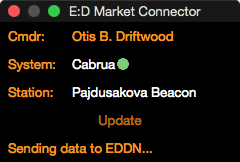
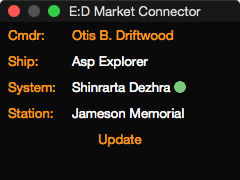
Add Ship field to main Window
Send clicks to current loadout on E:D Shipyard.

diff --git a/EDMarketConnector.py b/EDMarketConnector.py
@@ -94,20 +94,24 @@ class AppWindow:
         frame.columnconfigure(1, weight=1)
 
         self.cmdr_label = tk.Label(frame)
+        self.ship_label = tk.Label(frame)
         self.system_label = tk.Label(frame)
         self.station_label = tk.Label(frame)
 
         self.cmdr_label.grid(row=1, column=0, sticky=tk.W)
-        self.system_label.grid(row=2, column=0, sticky=tk.W)
-        self.station_label.grid(row=3, column=0, sticky=tk.W)
+        self.ship_label.grid(row=2, column=0, sticky=tk.W)
+        self.system_label.grid(row=3, column=0, sticky=tk.W)
+        self.station_label.grid(row=4, column=0, sticky=tk.W)
 
-        self.cmdr = tk.Label(frame, anchor=tk.W)
-        self.system =  HyperlinkLabel(frame, compound=tk.RIGHT, url = self.system_url, popup_copy = True)
+        self.cmdr    = tk.Label(frame, anchor=tk.W)
+        self.ship    = HyperlinkLabel(frame, url = self.edshipyard_url)
+        self.system  = HyperlinkLabel(frame, compound=tk.RIGHT, url = self.system_url, popup_copy = True)
         self.station = HyperlinkLabel(frame, url = self.station_url, popup_copy = lambda x: x!=self.STATION_UNDOCKED)
 
         self.cmdr.grid(row=1, column=1, sticky=tk.EW)
-        self.system.grid(row=2, column=1, sticky=tk.EW)
-        self.station.grid(row=3, column=1, sticky=tk.EW)
+        self.ship.grid(row=2, column=1, sticky=tk.EW)
+        self.system.grid(row=3, column=1, sticky=tk.EW)
+        self.station.grid(row=4, column=1, sticky=tk.EW)
 
         for plugname in plug.PLUGINS:
             appitem = plug.get_plugin_app(plugname, frame)
@@ -127,7 +131,7 @@ class AppWindow:
         theme.button_bind(self.theme_button, self.getandsend)
 
         for child in frame.winfo_children():
-            child.grid_configure(padx=5, pady=(platform=='win32' and 1 or 3))
+            child.grid_configure(padx=5, pady=(platform!='win32' and 2 or 0))
 
         self.menubar = tk.Menu()
         if platform=='darwin':
@@ -235,6 +239,7 @@ class AppWindow:
         self.w.resizable(tk.TRUE, tk.FALSE)
 
         theme.register(frame)
+        theme.register_highlight(self.ship)
         theme.register_highlight(self.system)
         theme.register_highlight(self.station)
         theme.apply(self.w)
@@ -264,6 +269,7 @@ class AppWindow:
     # set main window labels, e.g. after language change
     def set_labels(self):
         self.cmdr_label['text']    = _('Cmdr') + ':'	# Main window
+        self.ship_label['text']    = _('Ship') + ':'	# Main window
         self.system_label['text']  = _('System') + ':'	# Main window
         self.station_label['text'] = _('Station') + ':'	# Main window
         self.button['text'] = self.theme_button['text'] = _('Update')	# Update button in main window
@@ -366,7 +372,7 @@ class AppWindow:
                 self.status['text'] = _("What are you flying?!")	# Shouldn't happen
             elif monitor.cmdr and data['commander']['name'] != monitor.cmdr:
                 raise companion.CredentialsError()			# Companion API credentials don't match Journal
-            elif auto_update and (not data['commander'].get('docked') or (monitor.logfile and self.system['text'] and data['lastSystem']['name'] != self.system['text'])):
+            elif (auto_update and not data['commander'].get('docked')) or (monitor.system and data['lastSystem']['name'] != monitor.system) or (monitor.shiptype and data['ship']['name'].lower() != monitor.shiptype):
                 raise companion.ServerLagging()
 
             else:
@@ -377,6 +383,7 @@ class AppWindow:
                         h.write(json.dumps(data, ensure_ascii=False, indent=2, sort_keys=True, separators=(',', ': ')).encode('utf-8'))
 
                 self.cmdr['text'] = data['commander']['name']
+                self.ship['text'] = companion.ship_map.get(data['ship']['name'].lower(), data['ship']['name'])
                 if not monitor.system:
                     self.system['text'] = data['lastSystem']['name']
                     self.system['image'] = ''
@@ -515,6 +522,7 @@ class AppWindow:
 
             # Update main window
             self.cmdr['text'] = monitor.cmdr or ''
+            self.ship['text'] = monitor.shiptype and companion.ship_map.get(monitor.shiptype, monitor.shiptype) or ''
             self.station['text'] = monitor.station or (EDDB.system(monitor.system) and self.STATION_UNDOCKED or '')
             if system_changed or station_changed:
                 self.status['text'] = ''
@@ -637,6 +645,33 @@ class AppWindow:
             self.system['image'] = result['img']
         else:
             self.w.after(int(EDSM_POLL * 1000), self.edsmpoll)
+
+    def edshipyard_url(self, shipname=None):
+        self.status['text'] = _('Fetching data...')
+        self.w.update_idletasks()
+        try:
+            data = self.session.query()
+        except companion.VerificationRequired:
+            return prefs.AuthenticationDialog(self.parent, partial(self.verify, self.edshipyard_url))
+        except companion.ServerError as e:
+            self.status['text'] = str(e)
+            return
+        except Exception as e:
+            if __debug__: print_exc()
+            self.status['text'] = str(e)
+            return
+
+        if not data.get('commander') or not data['commander'].get('name','').strip():
+            self.status['text'] = _("Who are you?!")		# Shouldn't happen
+        elif not data.get('lastSystem') or not data['lastSystem'].get('name','').strip() or not data.get('lastStarport') or not data['lastStarport'].get('name','').strip():
+            self.status['text'] = _("Where are you?!")		# Shouldn't happen
+        elif not data.get('ship') or not data['ship'].get('modules') or not data['ship'].get('name','').strip():
+            self.status['text'] = _("What are you flying?!")	# Shouldn't happen
+        elif shipname and shipname != companion.ship_map.get(data['ship']['name'].lower(), data['ship']['name']):
+            self.status['text'] = _('Error: Server is lagging')	# Raised when Companion API server is returning old data, e.g. when the servers are too busy
+        else:
+            self.status['text'] = ''
+            return edshipyard.url(data)
 
     def system_url(self, text):
         return text and self.edsm.result['url']

diff --git a/edshipyard.py b/edshipyard.py
@@ -1,18 +1,23 @@
 # Export ship loadout in E:D Shipyard format
 
+import base64
 from collections import defaultdict
 import json
 import os
 from os.path import join
 import re
+import StringIO
 import time
+import urllib2
+import gzip
 
 import companion
 
 from config import config
 
 
-def export(data, filename=None):
+# Return a description of the current ship as a JSON object
+def description(data):
 
     # Add a leaf to a dictionary, creating empty dictionaries along the branch if necessary
     def addleaf(data, to, props):
@@ -66,7 +71,12 @@ def export(data, filename=None):
         for prop in ['free', 'id', 'modifiers', 'name', 'on', 'priority', 'recipeLevel', 'recipeName', 'recipeValue', 'unloaned', 'value']:
             addleaf(data['ship']['modules'], ship['modules'], (slot, 'module', prop))
 
-    string = json.dumps(ship, ensure_ascii=False, indent=2, sort_keys=True, separators=(',', ': ')).encode('utf-8')
+    return ship
+
+
+def export(data, filename=None):
+
+    string = json.dumps(description(data), ensure_ascii=False, indent=2, sort_keys=True, separators=(',', ': '))	# pretty print
 
     if filename:
         with open(filename, 'wt') as h:
@@ -86,3 +96,15 @@ def export(data, filename=None):
     filename = join(config.get('outdir'), '%s.%s.txt' % (ship, time.strftime('%Y-%m-%dT%H.%M.%S', time.localtime(querytime))))
     with open(filename, 'wt') as h:
         h.write(string)
+
+
+# Return a URL for the current ship
+def url(data):
+
+    string = json.dumps(description(data), ensure_ascii=False, sort_keys=True, separators=(',', ':'))	# most compact representation
+
+    out = StringIO.StringIO()
+    with gzip.GzipFile(fileobj=out, mode='w') as f:
+        f.write(string)
+    return 'http://www.edshipyard.com/#/I=' + urllib2.quote(base64.standard_b64encode(out.getvalue()), safe='')
+

diff --git a/README.md b/README.md
@@ -14,6 +14,8 @@ Usage
 --------
 The user-interface is deliberately minimal - when you land at a station just switch to the app and press the “Update” button or press Enter to download and transmit and/or save your choice of data.
 
+Click on the ship name to view its loadout and modifications on [E:D&nbsp;Shipyard](http://www.edshipyard.com) in your web broswer.
+
 Click on the system name to go to its [Elite: Dangerous Star Map](http://www.edsm.net/) (“EDSM”) entry in your web broswer.
 
 Click on the station name to go to its [Elite: Dangerous Database](http://eddb.io/) (“eddb”) entry in your web broswer.
